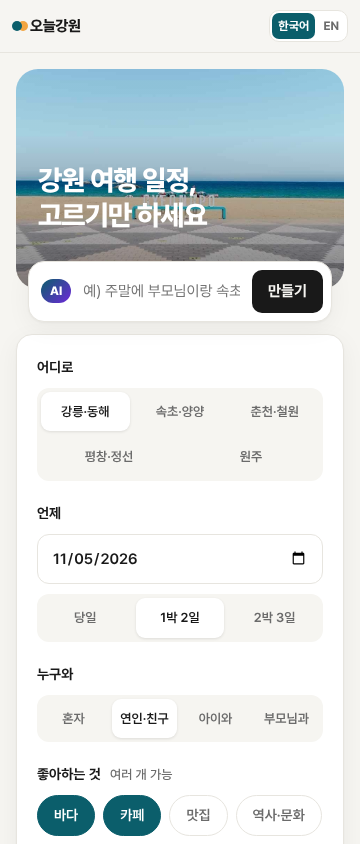
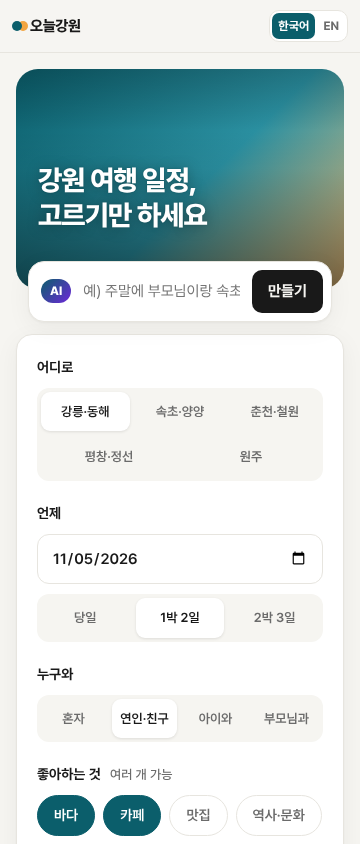
Rotate the home hero photo daily ("오늘의 강원")
The hero now shows one of 41 hand-picked verified photos per day
(landscapes only: no big signage, props, interiors or low-res shots).
It changes at midnight Korea time, is the same for everyone on a given
day, and follows a fixed shuffled order so similar beaches don't repeat
back to back. The photo fades in once loaded over the existing gradient,
with a small "오늘의 강원 · place" caption (English name in EN mode).
Added a soft text shadow so the title stays readable on bright photos.
Service worker cache bumped to v10.

Claude-Session: https://claude.ai/code/session_01F97bc1LV9a97NyPAs5RF2H

Changed region(s): [[0.0306, 0.0616, 0.9778, 0.3389]]

diff --git a/travel-planner/public/app.js b/travel-planner/public/app.js
@@ -321,10 +321,49 @@ function loadImages() {
     if (photoObserver) photoObserver.observe(el); else { photoQueue.push(el); pumpPhotos(); }
   });
 }
-// 첫 화면 히어로: photos.json의 경포해변 사진
+/* ---------- 첫 화면 히어로: 오늘의 강원 ----------
+   검증된 사진(photos.json) 중 풍경으로 보기 좋은 곳만 골라 하루에 한 장씩 (한국 시간 자정에 바뀜).
+   큰 간판·조형물·실내·저화질 사진은 뺐다. 같은 날엔 누구에게나 같은 사진이고, 비슷한 바다가
+   이어지지 않게 고정된 순서로 섞어 돌린다. 사진은 다 받은 뒤 서서히 나타난다. */
+const HERO_IDS = [
+  "sacheon-beach", "jeongdongjin", "seongyojang", "gyeongpodae", "heo-park", "gwana", "haslla", "time-museum",
+  "gyeongpo-lake", "gasiyeon", "jumunjin-lighthouse", "chuam", "dojjaebi", "haerang", "samcheok-cable", "jangho",
+  "sokcho-beach", "yeonggeumjeong", "cheongcho", "seorak-cable", "hwajinpo", "ayajin", "hajodae", "birch",
+  "nami", "soyang-skywalk", "cc-museum", "gongjicheon", "hantan-trail", "goseokjeong", "hwacheon-river", "samak-cable",
+  "labor-party", "jiktang", "woljeongsa", "cheongnyeongpo", "hanbando", "hwangji", "windhill", "bangyeri", "hoengseong-lake",
+];
+function heroOrder() {
+  // 고정 씨앗으로 섞기 (mulberry32): 배포할 때마다 순서가 바뀌지 않게
+  let a = 20261104;
+  const rnd = () => { a |= 0; a = (a + 0x6d2b79f5) | 0; let x = Math.imul(a ^ (a >>> 15), 1 | a); x = (x + Math.imul(x ^ (x >>> 7), 61 | x)) ^ x; return ((x ^ (x >>> 14)) >>> 0) / 4294967296; };
+  const list = [...HERO_IDS];
+  for (let i = list.length - 1; i > 0; i--) { const j = Math.floor(rnd() * (i + 1)); [list[i], list[j]] = [list[j], list[i]]; }
+  return list;
+}
+const kstDay = () => Math.floor((Date.now() + 9 * 3600e3) / 864e5); // 한국 시간 기준 날짜 번호
+let heroPlace = null;
+function heroCaption() {
+  const el = $("#heroCaption");
+  if (!heroPlace) { el.hidden = true; return; }
+  el.hidden = false;
+  el.innerHTML = `<svg viewBox="0 0 24 24" width="12" height="12" fill="currentColor" aria-hidden="true"><path d="M12 2a7 7 0 0 0-7 7c0 5.2 7 13 7 13s7-7.8 7-13a7 7 0 0 0-7-7zm0 9.5A2.5 2.5 0 1 1 12 6.5a2.5 2.5 0 0 1 0 5z"/></svg>${t("오늘의 강원")} · ${esc(placeName(heroPlace))}`;
+}
 (async () => {
-  const src = await photoFor(PLACES.find((p) => p.id === "gyeongpo-beach"));
-  if (src) $("#hero").style.setProperty("--hero", `url("${src.replace(/\/\d+px-/, "/1280px-")}")`);
+  await bakedReady;
+  const order = heroOrder().filter((id) => baked[id]);
+  if (!order.length) return;
+  const place = PLACES.find((p) => p.id === order[kstDay() % order.length]);
+  const src = baked[place.id];
+  const img = new Image();
+  img.decoding = "async";
+  img.onload = () => {
+    const layer = $("#heroPhoto");
+    layer.style.backgroundImage = `url("${src}")`;
+    layer.classList.add("on");
+    heroPlace = place;
+    heroCaption();
+  };
+  img.src = src;
 })();
 
 /* ---------- 축제 ---------- */
@@ -784,6 +823,7 @@ async function switchLang(l) {
   setLang(l);
   if (isEN()) await loadDataEn((u) => fetchT(u, {}, 4000));
   applyStatic();
+  heroCaption();
   if (trip && !$("#result").hidden) render();
   renderPast();
 }

diff --git a/travel-planner/public/style.css b/travel-planner/public/style.css
@@ -65,9 +65,20 @@ button { cursor: pointer; }
   position: relative; height: 220px; margin: 16px 0 -40px; border-radius: 22px; overflow: hidden;
   background: var(--hero, none) center/cover, linear-gradient(135deg, #0b5e6b 0%, #2a8fa0 55%, #f2c27b 100%);
 }
-.hero::after { content: ""; position: absolute; inset: 0; background: linear-gradient(180deg, rgba(0,0,0,.05) 30%, rgba(0,0,0,.45)); }
+.hero::after { content: ""; position: absolute; inset: 0; background: linear-gradient(180deg, rgba(0,0,0,.18) 0%, rgba(0,0,0,0) 28%, rgba(0,0,0,.05) 45%, rgba(0,0,0,.5)); }
+/* 오늘의 강원: 사진을 다 받은 뒤 서서히 (색 그라데이션 위로) */
+.hero-photo { position: absolute; inset: 0; background: center/cover no-repeat; opacity: 0; transform: scale(1.04); transition: opacity .9s ease, transform 6s ease-out; }
+.hero-photo.on { opacity: 1; transform: scale(1); }
+.hero-caption {
+  position: absolute; top: 12px; right: 12px; z-index: 1; margin: 0; max-width: calc(100% - 24px);
+  display: inline-flex; align-items: center; gap: 5px; padding: 5px 10px; border-radius: 999px;
+  background: rgba(0, 0, 0, .32); backdrop-filter: blur(6px); color: #fff; font-size: 12px; font-weight: 600;
+  white-space: nowrap; overflow: hidden; text-overflow: ellipsis; animation: heroCap .6s .4s ease both;
+}
+@keyframes heroCap { from { opacity: 0; transform: translateY(-4px); } to { opacity: 1; transform: none; } }
+@media (prefers-reduced-motion: reduce) { .hero-photo, .hero-photo.on { transition: none; transform: none; } .hero-caption { animation: none; } }
 .hero-text { position: absolute; left: 22px; bottom: 56px; z-index: 1; color: #fff; }
-.hero h1 { margin: 0; font-size: 28px; line-height: 1.25; letter-spacing: -.03em; font-weight: 800; }
+.hero h1 { margin: 0; font-size: 28px; line-height: 1.25; letter-spacing: -.03em; font-weight: 800; text-shadow: 0 1px 14px rgba(0, 0, 0, .35), 0 0 2px rgba(0, 0, 0, .2); }
 
 .form { position: relative; padding: 22px 20px; display: grid; gap: 22px; }
 .field { display: grid; gap: 10px; }

diff --git a/travel-planner/public/sw.js b/travel-planner/public/sw.js
@@ -2,7 +2,7 @@
 // - 앱 파일: 캐시에서 바로 보여주고 뒤에서 새 버전으로 갱신 (stale-while-revalidate)
 // - 지도 타일·사진: 한 번 받으면 캐시에서 (cache-first)
 // - AI·날씨·경로 등 API: 항상 네트워크
-const CACHE = "ohneul-gangwon-v9";
+const CACHE = "ohneul-gangwon-v10";
 const SHELL = ["./", "index.html", "style.css", "app.js", "planner.js", "data.js", "i18n.js", "data-en.json", "photos.json", "ai-local.js", "icon.svg", "manifest.webmanifest", "vendor/leaflet/leaflet.js", "vendor/leaflet/leaflet.css", "vendor/pretendard/pretendardvariable-dynamic-subset.css"];
 const MEDIA = /tile\.openstreetmap\.org|upload\.wikimedia\.org|tong\.visitkorea\.or\.kr|\.woff2$/;
 const LIVE = /\/api\/|open-meteo|project-osrm|wikipedia\.org\/api/;

diff --git a/travel-planner/public/i18n.js b/travel-planner/public/i18n.js
@@ -26,6 +26,7 @@ const EN = {
   "링크 공유": "Share",
   "캘린더 저장": "Calendar",
   "강원 여행 일정,<br>고르기만 하세요": "Your Gangwon trip,<br>just pick and go",
+  "오늘의 강원": "Today in Gangwon",
   "예) 주말에 부모님이랑 속초 1박": "e.g. Sokcho with my parents this weekend, 1 night",
   "만들기": "Create",
   "어디로": "Where",

diff --git a/travel-planner/public/index.html b/travel-planner/public/index.html
@@ -36,6 +36,8 @@
   <!-- 1. 조건 선택 -->
   <main id="setup" class="setup">
     <section class="hero" id="hero">
+      <div class="hero-photo" id="heroPhoto" aria-hidden="true"></div>
+      <p class="hero-caption" id="heroCaption" hidden></p>
       <div class="hero-text">
         <h1 data-i18n>강원 여행 일정,<br>고르기만 하세요</h1>
       </div>

diff --git a/travel-planner/README.md b/travel-planner/README.md
@@ -77,7 +77,7 @@ AI_API_KEY=발급키 AI_MODEL=모델ID TOUR_API_KEY=공공데이터포털_Decodi
 TOUR_API_KEY=Decoding키 node scripts/bake-photos.mjs     # → public/photos.json, reports/photos.md
 ```
 
-화면은 ① `photos.json` → ② `/api/photo`(서버에 키가 있으면 같은 규칙으로 찾기) → ③ 장소에 지정된 위키백과 문서 사진(여러 가게가 모인 곳 제외) 순으로 쓴다. 첫 화면 히어로도 `photos.json`의 경포해변 사진이다. 사진이 없는 곳은 분류 색 카드로 보인다.
+화면은 ① `photos.json` → ② `/api/photo`(서버에 키가 있으면 같은 규칙으로 찾기) → ③ 장소에 지정된 위키백과 문서 사진(여러 가게가 모인 곳 제외) 순으로 쓴다. 첫 화면 히어로는 **오늘의 강원**: `photos.json` 중 풍경으로 보기 좋은 41곳(큰 간판·조형물·실내·저화질 제외, `app.js`의 `HERO_IDS`)에서 하루 한 장씩 바뀐다. 한국 시간 자정에 바뀌고 같은 날엔 누구에게나 같은 사진이며, 비슷한 바다가 이어지지 않게 고정된 순서로 섞어 돌린다. 사진은 다 받은 뒤 서서히 나타나고, 오른쪽 위에 "오늘의 강원 · 장소 이름"(EN이면 영문 이름)이 붙는다. 사진이 없는 곳은 분류 색 카드로 보인다.
 
 ## 영문 (외국인용)
 
